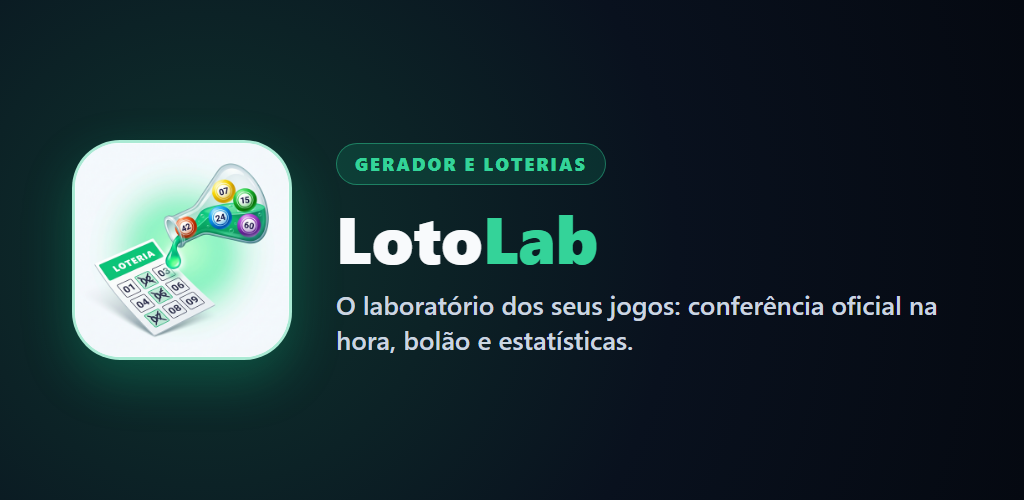
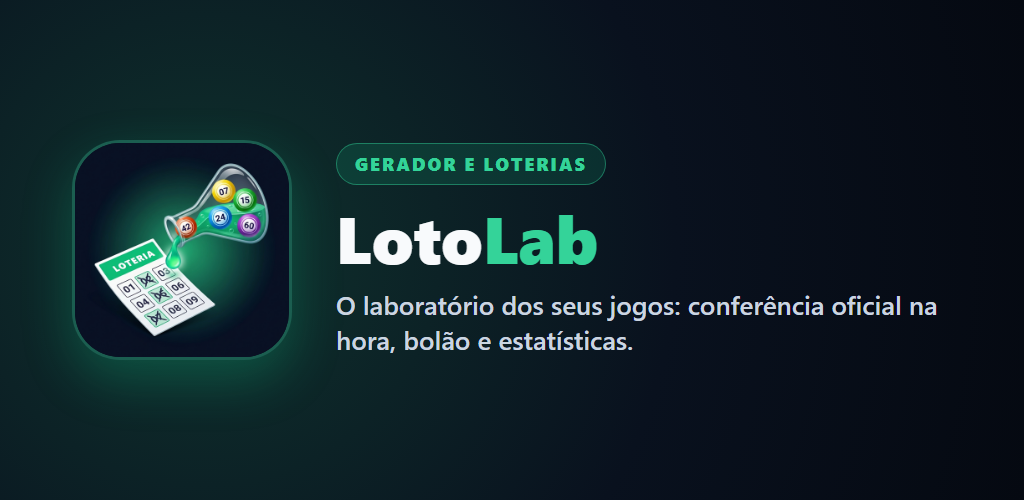
fix(brand): publicar icone escuro integrado LotoLab e todas as 8 artes da Play Store

Changed region(s): [[0.0625, 0.27, 0.3125, 0.72]]

diff --git a/sw.js b/sw.js
@@ -3,8 +3,8 @@
 // Estratégia: Cache-First para assets estáticos, Network-First para dados
 // =========================================================================
 
-const CACHE_NAME = 'loterias-nasa-pro-v20261121.04';
-const CACHE_STATIC = 'nasa-static-v20261121.04';
+const CACHE_NAME = 'loterias-nasa-pro-v20261121.05';
+const CACHE_STATIC = 'nasa-static-v20261121.05';
 
 // Assets críticos para funcionamento offline
 const ASSETS_TO_CACHE = [
